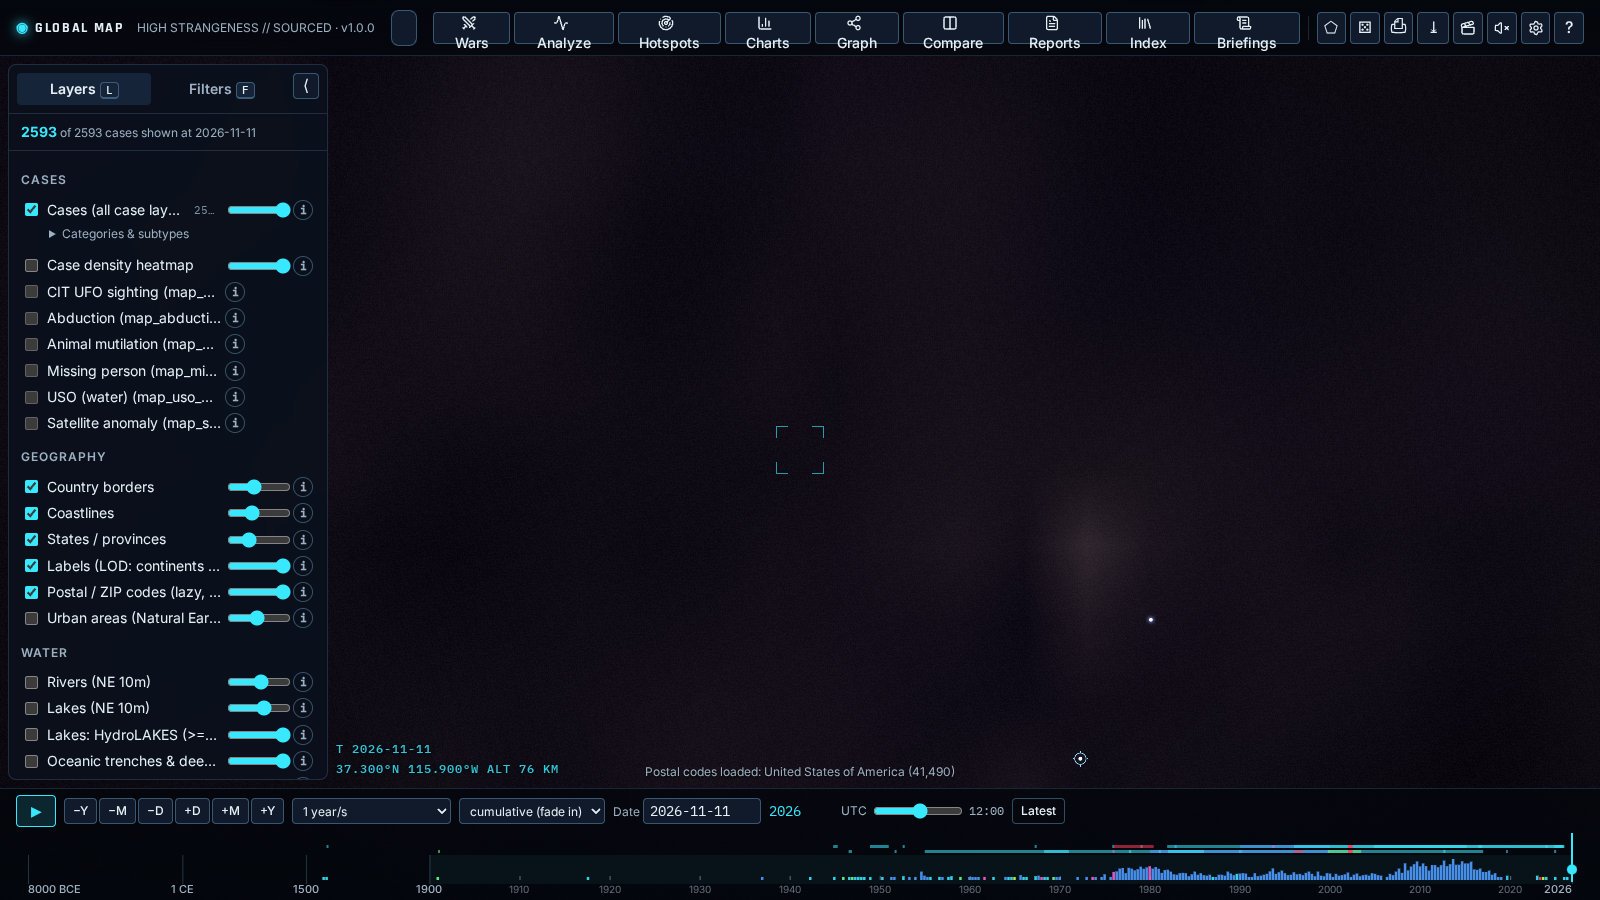
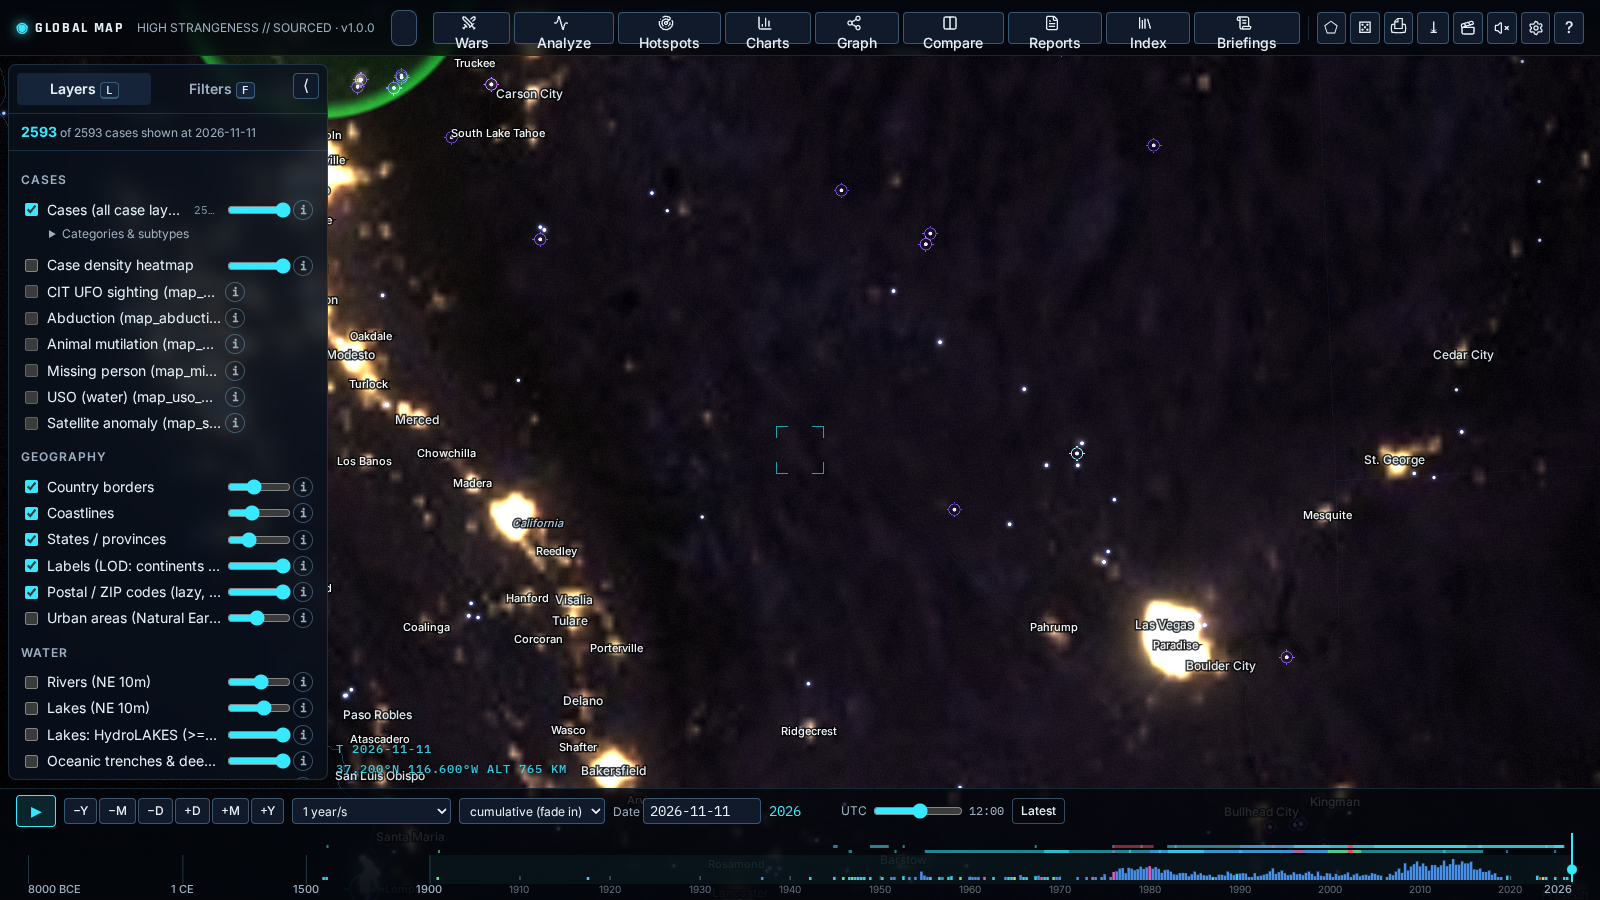
docs: release notes for v1.0.0

diff --git a/RELEASE_NOTES_v1.0.0.md b/RELEASE_NOTES_v1.0.0.md
@@ -1,0 +1,47 @@
+# Global Map v1.0.0
+
+Released 2026-11-12 by 0thernes L.L.C. · [Live demo](https://0thernes.github.io/global-map-app/) · [Changelog](CHANGELOG.md)
+
+A cinematic 3D OSINT globe of sourced UAP and high-strangeness cases, set against military, nuclear, conflict, water
+and sky layers. Static browser app: no install, no server, works offline from `file://`.
+
+## Get it
+
+- Download `global-map-app-v1.0.0.zip` below, unzip, and open `index.html` (Windows: double-click `launch.cmd`).
+- Or use the live demo on GitHub Pages.
+
+## Highlights
+
+- **ENGAGE** boot screen and a 20-step guided tour; HUD, lower thirds, CC0 sound (muted until you interact).
+- **2,593 public sourced cases** with grades and precision pins/circles; conflicts between sources shown, never hidden.
+- **Layers of layers:** tri-state group › layer › sub-layer tree over 30+ data layers, including new **Off-limits
+  mountains** (with computed distance to the nearest military site), **HydroLAKES**, **GEBCO 2025 unmapped
+  seafloor**, **oceanic trenches**, **CNEOS fireballs**, **USO** and **satellite anomalies** (off-world panel).
+- **Convergence hotspots** with population correction and evidence grades; big regions split at score peaks.
+- **Reports** (print/PDF, standalone HTML) and a **Reference index** with a breadth × depth coverage matrix.
+- **Ten-pass forensic audit:** 3,072 findings classed as bug, error, issue, problem, dilemma or conflict; statistics
+  re-derived independently in Python.
+
+## Important result change
+
+The military layer now excludes fire lookout towers and similar items pulled in by the Wikidata class walk, and the
+analysis excludes historic fortifications and gendarmerie barracks. For all public UAP-type cases the median distance
+to the nearest military site is 16.0 km (was 2.6 km) and the population-weighted test is no longer significant. For
+the 24 precisely located cases the result is unchanged. Details: [docs/audit/SUMMARY.md](docs/audit/SUMMARY.md).
+
+## Data and licences
+
+Code is MIT. Each dataset keeps its own licence ([DATA_LICENSE.md](DATA_LICENSE.md), [CREDITS.md](CREDITS.md)).
+NUFORC rows have no stated licence and are **not** included; they build into the git-ignored `data/private/` for
+local use. The satellite basemap uses the CC BY 4.0 EOX Sentinel‑2 cloudless **2016** vintage.
+
+## Known limitations
+
+- OSM military and nuclear-test-site extracts are staged (Overpass was unavailable during the build).
+- The all-precision analysis and reports over very large local datasets are slow on software rendering.
+- HydroLAKES below 1 km² and streamed high-zoom globe tiles are on the roadmap.
+
+## Checks
+
+ESLint and Prettier clean · 66 unit tests pass · data validation 0 errors · headless end-to-end smoke test passes ·
+no file over 95 MB.
